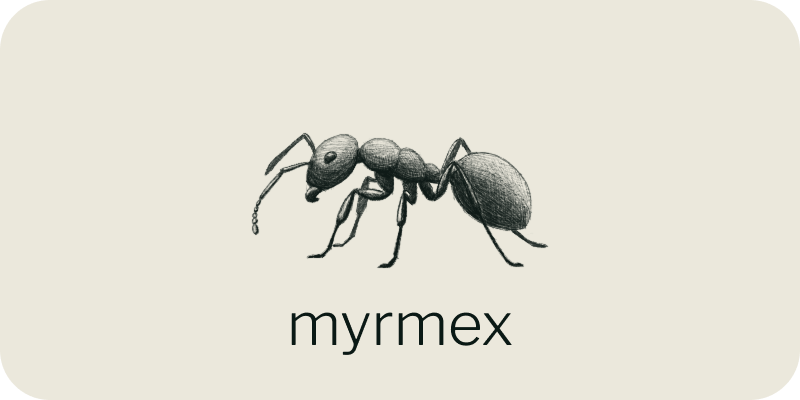
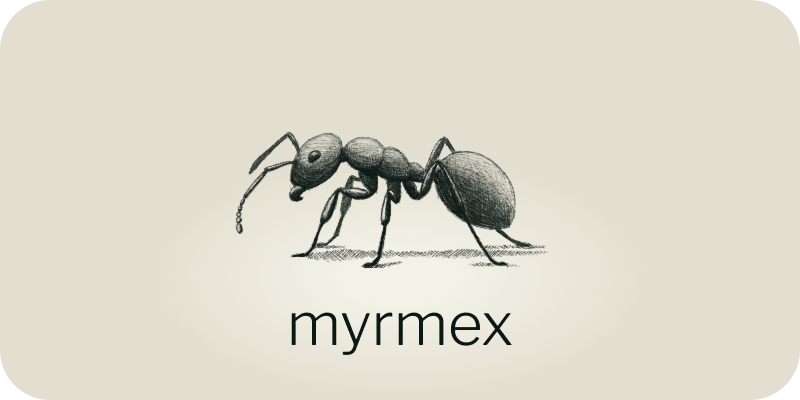
Update assets and associated links

Changed region(s): [[0.2812, 0.33, 0.6875, 0.69]]

diff --git a/README.md b/README.md
@@ -1,4 +1,4 @@
-<img src="https://github.com/user-attachments/assets/1692dafd-a14d-44ac-97ce-7183e80ba8df" alt="Alt Text" height="250">
+<img src="https://github.com/user-attachments/assets/fdcf9749-a847-474c-a03d-e6c92f630635" alt="Alt Text" height="250">
 
 # myrmex
 
